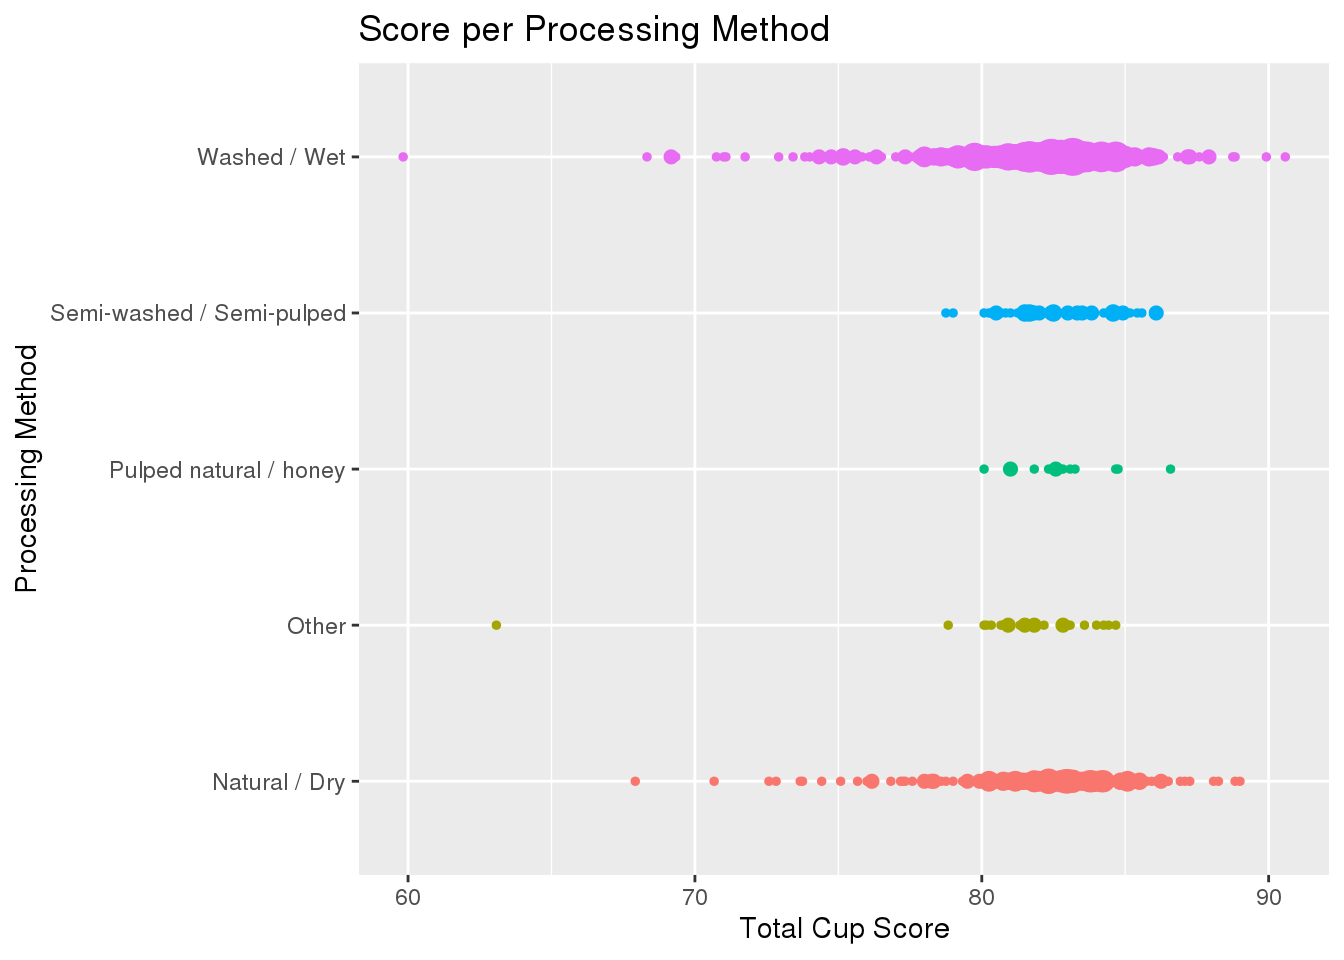
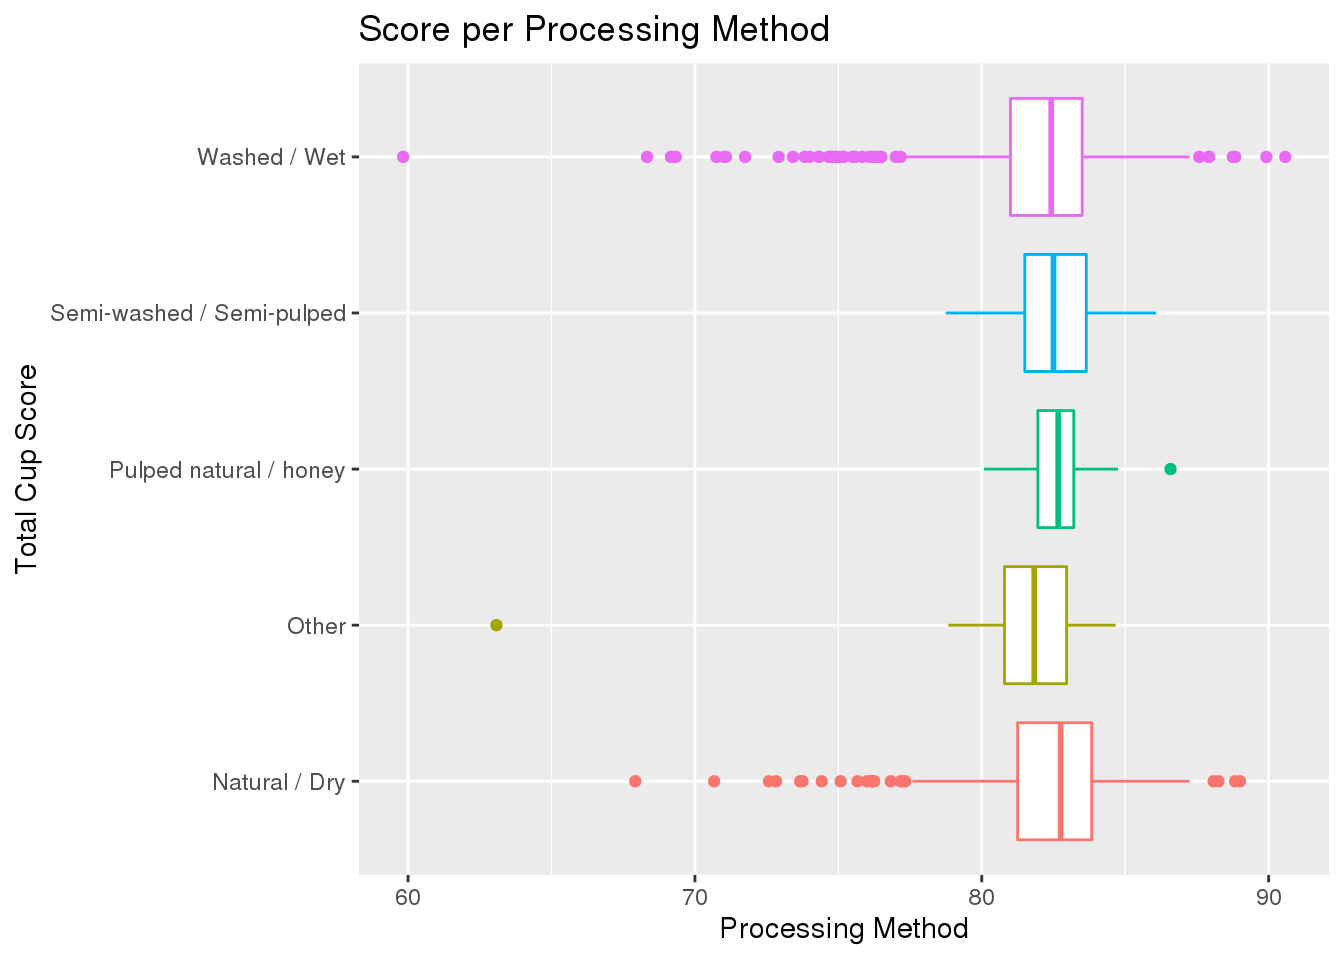
almost final changes

diff --git a/content/post/2020-12-09-music/index.html b/content/post/2020-12-09-music/index.html
@@ -1,5 +1,5 @@
 ---
-title: "music"
+title: "Music Popularity by Genre"
 author: 'null'
 date: '2020-12-09'
 slug: music
@@ -11,33 +11,44 @@ tags: []
 <script src="index_files/anchor-sections/anchor-sections.js"></script>
 
 
-<p>For my second dataset, I will be examining song genres vs song popularity. This dataset has 32,833 observations and uses 23 variables, and I will be using 4 of those variables. The first variable I will use is track_name, which lists the name of the song. The second variable I will use is track_artist which lists the name of the artist. The third variable I will use is track_popularity, which shows the score that it has received by spotify. The final variable I will use is playlist_genre, which shows what genre the song fits into.</p>
-<p>test test test test
-test test test test</p>
+<pre class="r"><code>library(here)
+library(ggplot2)
+library(tidyverse)
+library(readxl)
+knitr::opts_chunk$set(tidy = TRUE, echo = TRUE)
+music &lt;- read_csv(here::here(&quot;data&quot;, &quot;tidytuesday&quot;, &quot;data&quot;, &quot;2020&quot;, &quot;2020-01-21&quot;, &quot;spotify_songs.csv&quot;))</code></pre>
+<p>For my second dataset, I will be examining song genres vs song popularity. This dataset has 32,833 observations and uses 23 variables, and I will be using 4 of those variables. The first variable I will use is track_name, which lists the name of the song. The second variable I will use is track_artist which lists the name of the artist. The third variable I will use is track_popularity, which shows the score that it has received by Spotify. The final variable I will use is playlist_genre, which shows what genre the song fits into.</p>
 <div id="question-1" class="section level3">
 <h3>Question 1</h3>
-<p>Which genres have the most amount of songs that are very popular (85-100)? For this question I will start by selecting and grouping the appropriate variables. After that I will create the graph. For this graph I will be using a count chart.</p>
+<p>Which genres have the most amount of songs that are very popular (85-100)? For this question I will start by selecting and grouping the appropriate variables. The three variables that I am selecting for this observation are track_name, playlist_genre, and track_popularity. Next, I am going to group my data by the playlist_genre to make sure that the data is seperated into the appropriate categories. After that I will create the graph. For this graph I will be using a count chart.</p>
 <pre class="r"><code>music %&gt;% select(track_name, playlist_genre, track_popularity) %&gt;% group_by(playlist_genre) %&gt;% 
     ggplot(aes(x = track_popularity, y = playlist_genre, color = playlist_genre)) + 
     geom_count(show.legend = F) + ggtitle(&quot;Song Popularity by Genre&quot;) + xlab(&quot;Track Popularity&quot;) + 
     ylab(&quot;Playlist Genre&quot;) + xlim(85, 100)</code></pre>
 <pre><code>## Warning: Removed 32091 rows containing non-finite values (stat_sum).</code></pre>
 <p><img src="index_files/figure-html/unnamed-chunk-2-1.png" width="672" />
-In this graph the larger the circle is the higher the count is. As we can see rock has the least amount, while pop and latin have the highest number of popular songs.
-### Question 2
-Which genre has the highest overall average popularity rating of each genre? For starters, I will select the appropriate variables. I will also summarize the average of the track popularity by genre into a new variable called mean_pop.</p>
+In this graph the larger the circle is the higher the count is. As we can see rock has the least amount, while pop and latin have the highest number of popular songs. As the popularity ratings get higher, the amount of songs that have a popularity rating closer to 100 goes down significantly. This makes sense, as not everyone that listens to a song will have a positive opinion of it.</p>
+</div>
+<div id="question-2" class="section level3">
+<h3>Question 2</h3>
+<p>Which genre has the highest overall average popularity rating of each genre? For starters, I will select the appropriate variables. I will also summarize the average of the track popularity by genre into a new variable called mean_pop.</p>
 <pre class="r"><code>music %&gt;% select(playlist_genre, track_popularity) %&gt;% group_by(playlist_genre) %&gt;% 
-    summarize(mean_pop = mean(track_popularity)) %&gt;% ggplot(aes(x = playlist_genre, 
-    y = mean_pop, fill = playlist_genre)) + geom_bar(stat = &quot;identity&quot;, show.legend = F) + 
-    ylim(0, 60) + ggtitle(&quot;Average Popularity per Genre&quot;) + xlab(&quot;Playlist Genre&quot;) + 
+    ggplot(aes(x = playlist_genre, y = track_popularity, color = playlist_genre)) + 
+    geom_boxplot(show.legend = F) + stat_summary(fun.y = mean, geom = &quot;point&quot;, shape = 1, 
+    size = 3, show.legend = F) + ggtitle(&quot;Average Popularity per Genre&quot;) + xlab(&quot;Playlist Genre&quot;) + 
     ylab(&quot;Mean Popularity&quot;)</code></pre>
 <p><img src="index_files/figure-html/unnamed-chunk-3-1.png" width="672" />
-As we can see pop has the highest average popularity, which is in line with the previous question. Latin is close behind, and rap and rock close behind that. Unlike the previous question, edm is the lowest on this chart.
-### Question 3
-In each genre, which artists are the most popular? For this question, we will start by selecting the appropriate variables and grouping by track_artist. Then, we need to filter out the artists that have songs under 95 popularity to keep the graph from getting too crowded.</p>
+As we can see pop has the highest average popularity, which is in line with the previous question. Latin is close behind, and rap and rock close behind that. Unlike the previous question, edm is the lowest on this chart. What suprises me about this analysis is how popular Latin is. I would assume that most Spotify users would be listening to the bigger artists like Taylor Swift of Billie Eilish. Personally, I have not heard of many of the Latin artists before.</p>
+</div>
+<div id="question-3" class="section level3">
+<h3>Question 3</h3>
+<p>In each genre, which artists are the most popular? For this question, we will start by selecting the appropriate variables and grouping by track_artist. Then, we need to filter out the artists that have songs under 95 popularity to keep the graph from getting too crowded.</p>
 <pre class="r"><code>music %&gt;% select(playlist_genre, track_artist, track_popularity) %&gt;% group_by(track_artist) %&gt;% 
     filter(track_popularity &gt; 94) %&gt;% ggplot(aes(x = track_popularity, y = track_artist, 
     color = track_artist)) + geom_point(show.legend = F) + xlim(95, 100) + facet_grid(~playlist_genre)</code></pre>
 <p><img src="index_files/figure-html/unnamed-chunk-4-1.png" width="672" />
 As we can see each artist has multiple categories that their music falls into. For EDM, the most popular artist is Arizona Zervas. For Latin, the most popular is Tones and I. For Pop the most popular artist is also Tones and I. For R&amp;B the most popular artist is Arizona Zervas. For Rap the most popular artist is tied between Roddy Ricch and KAROL G. For Rock the only selection is Billie Eilish so she wins be default.</p>
+</div>
+<div id="summary" class="section level2">
+<h2>Summary</h2>
 </div>

diff --git a/content/post/2020-12-09-coffee/index.html b/content/post/2020-12-09-coffee/index.html
@@ -11,14 +11,20 @@ tags: []
 <script src="index_files/anchor-sections/anchor-sections.js"></script>
 
 
+<pre class="r"><code>library(here)
+library(ggplot2)
+library(tidyverse)
+library(readxl)
+knitr::opts_chunk$set(tidy = TRUE, echo = TRUE)
+coffee &lt;- read_csv(here::here(&quot;data&quot;, &quot;tidytuesday&quot;, &quot;data&quot;, &quot;2020&quot;, &quot;2020-07-07&quot;, &quot;coffee_ratings.csv&quot;))</code></pre>
 <p>For my first dataset, I will be examining the ratings of coffee beans being processed in various ways. The different ways that coffee beans can be processed are natural/dry, pulped natural/honey, semi-washed/semi-pulped, or washed/wet. This data consists of 1,339 observations and 43 variables, only 4 of which I will be using in my analysis. The first variable I will use is total_cup_points. This variable is the total score that the coffee receives out of 100. The second variable is processing_method, which states the method by which this coffee was processed. The third variable is country_of_origin. This variable states which country the coffee was produced in. The final variable I will be using is species, which shows the species of coffea.</p>
 <div id="question-1" class="section level3">
 <h3>Question 1</h3>
 <p>How does the rating differ between cups that were processed in one of the various ways? To explore this question, we need to first select the data to only show the variables total_cup_points and processing_method. Then we filter out the entries with N/A.</p>
 <pre class="r"><code>coffee %&gt;% select(total_cup_points, processing_method) %&gt;% group_by(processing_method) %&gt;% 
-    filter(!is.na(processing_method)) %&gt;% ggplot(aes(x = total_cup_points, y = processing_method, 
-    color = processing_method)) + geom_count(show.legend = F) + ggtitle(&quot;Score per Processing Method&quot;) + 
-    xlab(&quot;Total Cup Score&quot;) + ylab(&quot;Processing Method&quot;)</code></pre>
+    filter(!is.na(processing_method)) %&gt;% ggplot(aes(x = processing_method, y = total_cup_points, 
+    color = processing_method)) + geom_boxplot(show.legend = F) + ggtitle(&quot;Score per Processing Method&quot;) + 
+    xlab(&quot;Total Cup Score&quot;) + ylab(&quot;Processing Method&quot;) + coord_flip()</code></pre>
 <p><img src="index_files/figure-html/unnamed-chunk-2-1.png" width="672" />
 As you can see, coffee that was processed using a washed/wet method or a natural/dry method showed a wider range of results than the other methods. While this may be in part that those two methods had a larger sample size, the other methods did not have any scores blelow a 75 while the first two methods had numerous below 75. This shows that the other methods are more difficult than the washed/wet and the natural/dry methods, but yield higher quality coffee more consistently.</p>
 </div>
@@ -26,10 +32,11 @@ As you can see, coffee that was processed using a washed/wet method or a natural
 <h3>Question 2</h3>
 <p>Which species of coffee produce the highest average score with each method? For this question, we must first select the appropriate data. I will be selecting the variables total_cup_points and species.</p>
 <pre class="r"><code>coffee %&gt;% select(total_cup_points, species, processing_method) %&gt;% filter(!is.na(processing_method)) %&gt;% 
-    group_by(processing_method, species) %&gt;% summarize(mean_score = mean(total_cup_points)) %&gt;% 
-    ggplot(aes(x = mean_score, y = processing_method, color = processing_method)) + 
-    geom_point(show.legend = F) + facet_wrap(~species) + ggtitle(&quot;Average Score per Species&quot;) + 
-    xlab(&quot;Mean Score&quot;) + ylab(&quot;Processing Method&quot;)</code></pre>
+    group_by(processing_method, species) %&gt;% ggplot(aes(x = processing_method, y = total_cup_points, 
+    color = processing_method)) + geom_boxplot(show.legend = F) + facet_wrap(~species) + 
+    ggtitle(&quot;Average Score per Species&quot;) + xlab(&quot;Mean Score&quot;) + ylab(&quot;Processing Method&quot;) + 
+    coord_flip() + stat_summary(fun.y = mean, geom = &quot;point&quot;, shape = 1, size = 3, 
+    show.legend = F)</code></pre>
 <p><img src="index_files/figure-html/unnamed-chunk-3-1.png" width="672" />
 As we can see, For the Arabica species the pulped natural/honey method produced the highest average score, and for the Robusta species the washed/wet method produced the highest average score by a signifigant margin.</p>
 </div>

diff --git a/public/2020/12/09/music/index.html b/public/2020/12/09/music/index.html
@@ -78,6 +78,8 @@
 
 
 <p>For my second dataset, I will be examining song genres vs song popularity. This dataset has 32,833 observations and uses 23 variables, and I will be using 4 of those variables. The first variable I will use is track_name, which lists the name of the song. The second variable I will use is track_artist which lists the name of the artist. The third variable I will use is track_popularity, which shows the score that it has received by spotify. The final variable I will use is playlist_genre, which shows what genre the song fits into.</p>
+<p>test test test test
+test test test test</p>
 <div id="question-1" class="section level3">
 <h3>Question 1</h3>
 <p>Which genres have the most amount of songs that are very popular (85-100)? For this question I will start by selecting and grouping the appropriate variables. After that I will create the graph. For this graph I will be using a count chart.</p>

diff --git a/content/about.md b/content/about.md
@@ -3,4 +3,4 @@ date: "2016-05-05T21:48:51-07:00"
 title: About
 ---
 
-Hi, my name is Maxwell Rice. I am a data science major at the University of Arkansas and this is the blog for my final DASC 1104 project. This blog will be the home for my resume and final project, which is talking about two different datasets from the Tidy Tuesday repository (https://github.com/rfordatascience/tidytuesday).
+Hi, my name is Maxwell Rice. I am a data science major at the University of Arkansas. I have been interested in technology and the organization and application of data for as long as I can remember. I decided that I wanted to be a data science major last year. I had started my first year of college as a computer science major. After a little over one semester I found myself being a little disinterested with what I was studying. I felt felt like data science would be a much better fit for me, and so far I have been much more interested. This is the blog for my final DASC 1104 project. This blog will be the home for my resume and final project, which is talking about two different datasets from the Tidy Tuesday repository (https://github.com/rfordatascience/tidytuesday).
